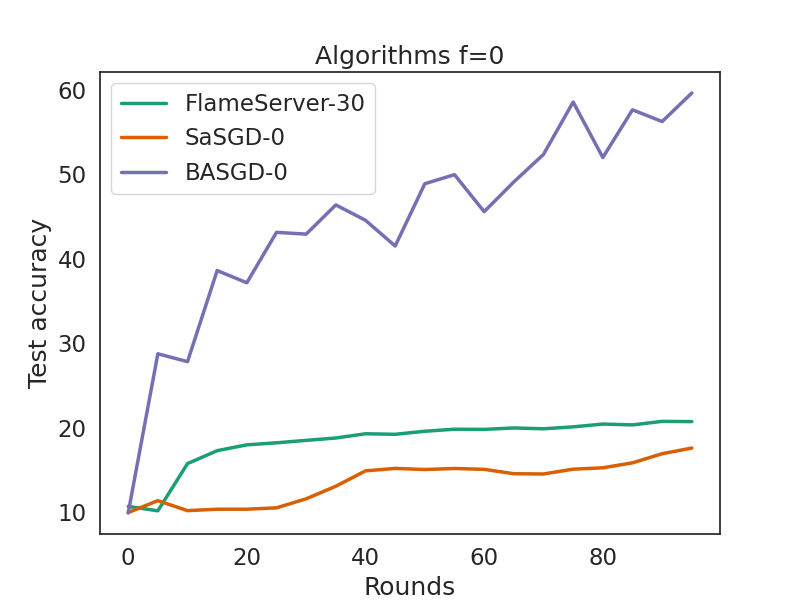
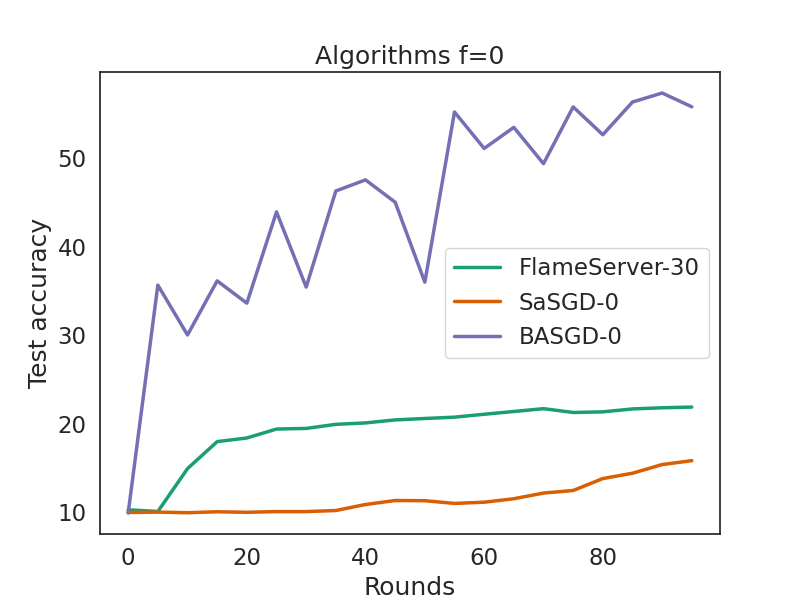
Update

diff --git a/asyncfl/server.py b/asyncfl/server.py
@@ -126,8 +126,8 @@ class Server:
 
         keys = weights.keys()
         old_weights = self.network.state_dict()
-        for key in keys:
-            logging.info(f'[{key}] equal ? {torch.eq(weights[key], old_weights[key])}')
+        # for key in keys:
+        #     logging.info(f'[{key}] equal ? {torch.eq(weights[key], old_weights[key])}')
         # logging.info(f'Setting server weights: {weights}')
         self.network.load_state_dict(copy.deepcopy(weights))
 
@@ -151,6 +151,7 @@ class Server:
         self.age += 1
 
     def client_weight_update(self, client_id, weights: dict, gradient_age: int, is_byzantine: bool):
+        logging.info('Default server client weight update')
         server_model_age = gradient_age if gradient_age < len(self.model_history) else 0
         update_params = get_update(weights, self.model_history[server_model_age])
         client_weight_vec = parameters_dict_to_vector_flt(weights)
@@ -167,6 +168,7 @@ class Server:
         
 
     def client_update(self, client_id: int, gradients: np.ndarray, client_lipschitz, client_convergence, gradient_age: int, is_byzantine: bool):
+        logging.info('Default server client update')
         client_gradients = torch.from_numpy(gradients)
         # print(f'Got gradient from client {_client_id}: grad_age={gradient_age}, server_age={self.get_age()}, diff={self.get_age() - gradient_age}')
         self.aggregate(client_gradients)

diff --git a/asyncfl/exps/exp29_flame_cifa10.py b/asyncfl/exps/exp29_flame_cifa10.py
@@ -61,12 +61,12 @@ if __name__ == '__main__':
             # [AFL.FlameServer,{'learning_rate': server_lr*5, 'hist_size': 4}],
             # [AFL.FlameServer,{'learning_rate': server_lr, 'hist_size': 10}],
             # [AFL.FlameServer,{'learning_rate': server_lr, 'hist_size': 20}],
+            [AFL.BASGD,{'learning_rate': server_lr, 'num_buffers': 1}],
             [AFL.FlameServer,{'learning_rate': server_lr, 'hist_size': 30}],
             # [AFL.Kardam,{'learning_rate': server_lr, 'damp_alpha': 0.01,}],
             [AFL.SaSGD,{'learning_rate': server_lr}],
             # [AFL.FedAsync,{'learning_rate': server_lr}],
             # [AFL.FedWait,{'learning_rate': server_lr}],
-            [AFL.BASGD,{'learning_rate': server_lr, 'num_buffers': 5}]
             # [AFL.Server,{'learning_rate': server_lr}],
             # [AFL.Telerig,{'learning_rate': server_lr, 'damp_alpha': 0.3, 'eps': 0.5}],
             # [AFL.Telerig,{'learning_rate': server_lr, 'damp_alpha': 0.3, 'eps': 1.0}],

diff --git a/asyncfl/flame_server.py b/asyncfl/flame_server.py
@@ -40,7 +40,7 @@ class FlameServer(Server):
             alpha = self.learning_rate / float(max(gradient_age, 1))
             global_model, accepted = flame(local_models, update_params_list, self.get_model_weights(), args_dict, alpha)
             self.set_weights(global_model)
-            logging.info(f'[{is_byzantine},{accepted == is_byzantine:5}]Server accepts update? {accepted}, is byzantine ? {is_byzantine}')
+            # logging.info(f'[{is_byzantine},{accepted == is_byzantine:5}]Server accepts update? {accepted}, is byzantine ? {is_byzantine}')
 
 
             # Aggregate

diff --git a/README.md b/README.md
@@ -66,3 +66,9 @@ To process the results run:
 ```bash
 python -m asyncfl.exps.<exp_name>.py -o
 ```
+
+To follow the logging output do:
+
+```bash
+tail -f debug.log
+```
